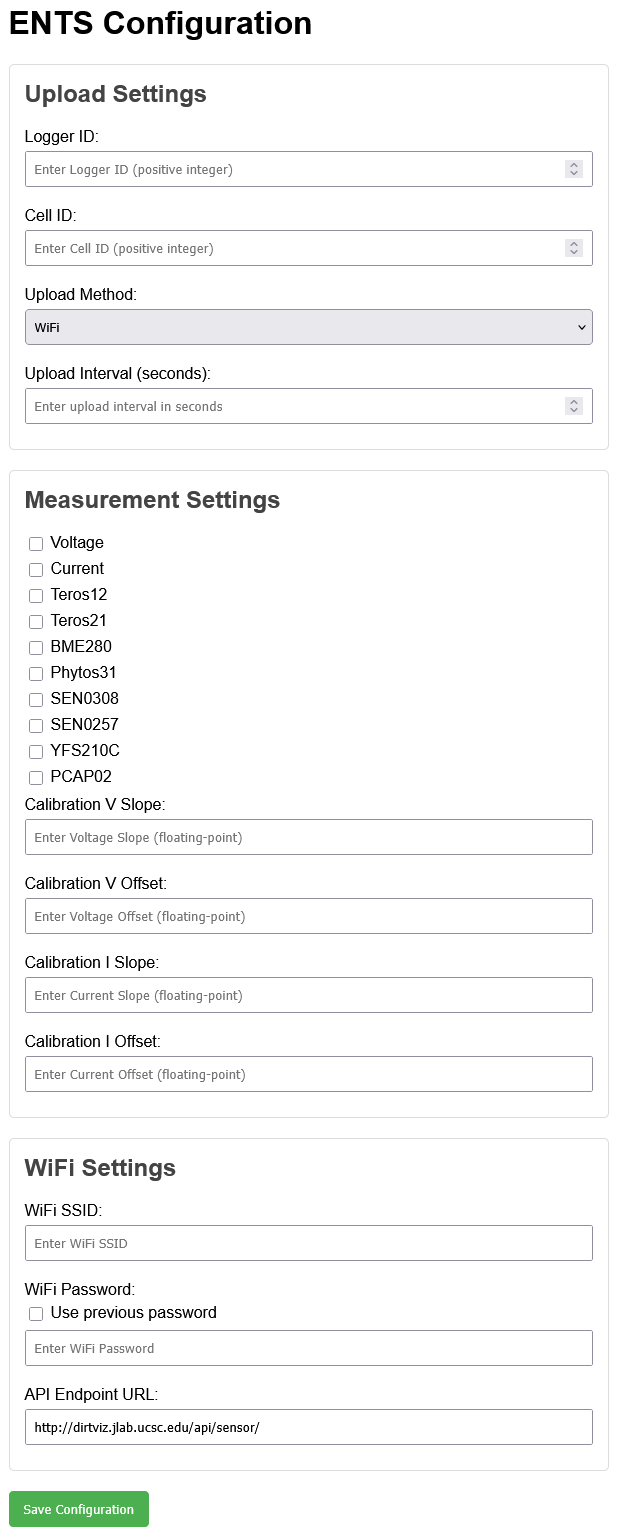
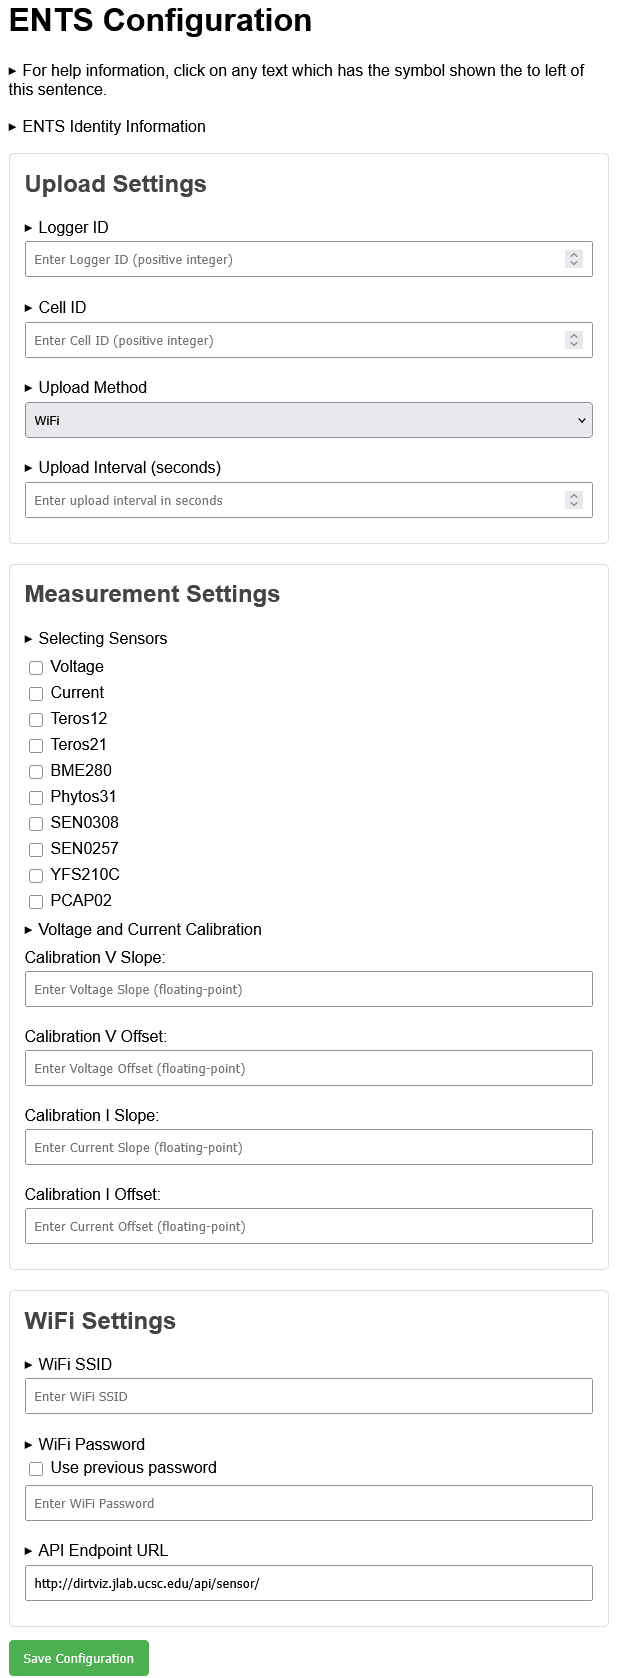
added additional images

diff --git a/getting_started_end_users.md b/getting_started_end_users.md
@@ -2,16 +2,35 @@
 
 Prerequisites: An assembled ENTS board with the [latest firmware](#how-to-check-what-firmware-is-on-your-ents-board).
 
+0. If you do not yet have a logger and a cell registered/created on your instance of [ents-backend](https://github.com/jlab-sensing/ENTS-backend), create a pair by logging in to your instance and navigating to your profile page's "Cells" and "Loggers" tabs.
+    - You can create a Logger ID on your instance of [ents-backend](https://github.com/jlab-sensing/ENTS-backend) by logging in and navigating to your Loggers page. When creating the Logger, use the values provided to you for the DevEUI, JoinEUI, and AppKey. Take note of the Logger ID, you will use it later.
+      - If you need to find out what these values are, you can find them during step 3 of the process to find out what [firmware version](#how-to-check-what-firmware-is-on-your-ents-board) you have.
+    - You can create a cell on your instance of [ents-backend](https://github.com/jlab-sensing/ENTS-backend) and get its Cell ID by logging in and navigating to your Cells page. Take note of the Cell ID, you will use it later.
+
 1. After receiving your ENTS board, plug it into power. You can use a USB cable to connect the ENTS board's USB-C port to your computer or to a 5V >=500mA power supply (such as a phone charger).
-2. Upon bootup, the ENTS board will broadcast a WiFi hotspot named `ents-unconfigured` (or `ents-` followed by some numbers according to its logger ID, ex. `ents-572`). Use your phone or computer to connect to this WiFi network.
+
+<figure>
+  <img src="ents power cropped.png" alt="ENTS power connection options" width="100%"/>
+  <figcaption><em>Figure 1:</em> To power the ENTS board, use a USB cable to connect the board to a charger or a host device.
+</figcaption>
+</figure>
+
+2. Upon bootup, the ENTS board will broadcast a WiFi hotspot named `ents-unconfigured` or `ents-` followed by its logger ID, ex. `ents-572` (for firmware versions 2.3.6 and below). If your board's firmware version is above 2.3.6, the WiFi hotspot will be named `ents-` followed by its device address, which looks like 8 random letters and numbers. Use your phone or computer to connect to this WiFi network. The default password for initial configuration is `ilovedirt`.
     - It is recommended to uncheck any options to "remember this network" or "automatically connect" to avoid accidentally connecting to ENTS board's WiFi in the future. You can also manually forget the network after finishing this guide.
+    - While you are connected to the ENTS' WiFi network, you will not have access to the broader internet.
+
+<figure>
+  <img src="ents wifi cropped.png" alt="ENTS wifi for configuration" width="100%"/>
+  <figcaption><em>Figure 2:</em> After powering on the ENTS board, connect to the wifi network it is broadcasting, then open a web browser to [192.168.4.1](http://192.168.4.1).
+</figcaption>
+</figure>
+
 3. After connecting to the ENTS' WiFi network, open a web browser and navigate to [192.168.4.1](http://192.168.4.1). This webpage is hosted locally by the ENTS board, and is used to configure the ENTS board for your use case.
-4. Fill out the form on the webpage. Some details may already be filled in based on previous configurations to that ENTS board.
-    - Upload Settings
+
+4. Fill out the form on the webpage. Some details may already be filled in based on previous configurations to that ENTS board. Text which has a triangle next to hit can be clicked on to show help text.
+    <!-- - Upload Settings
       - Logger ID: In order for the logger's data to be accepted by the server, you must provide a valid Logger ID here.
-        - You can create a Logger ID on your instance of [ents-backend](https://github.com/jlab-sensing/ENTS-backend) by logging in and navigating to your Loggers page. When creating the Logger, use the values provided to you for the DevEUI, JoinEUI, and AppKey.
       - Cell ID: Specify which cell that this logger should upload data to.
-        - You can create a cell on your instance of [ents-backend](https://github.com/jlab-sensing/ENTS-backend) and get its Cell ID by logging in and navigating to your Cells page.
       - Upload Method: Choose between WiFi or LoRaWAN communication. LoRaWAN communication requires a nearby LoRaWAN gateway (such as the Sentrius [RG191](https://www.ezurio.com/part/rg191)), so it is recommended to start with WiFi.
       - Upload Interval: Time in seconds between uploads. Minimum recommended time is 10 seconds.
     - Measurement Settings: In this section, check the box next to each sensor that you want to enable and connect to this ENTS board.
@@ -20,23 +39,45 @@ Prerequisites: An assembled ENTS board with the [latest firmware](#how-to-check-
       - WiFi SSID: Name of the WiFi network to connect to.
       - WiFi Password: Password for the WiFi network to connect to. Leave blank if you are connecting to a non password-protected (open) WiFi network.
         - Keep the "Use previous password" box unchecked so that the new password that you enter will be used instead!
-      - API Endpoint URL: Change this to point to your [ents-backend](https://github.com/jlab-sensing/ENTS-backend) instance's API endpoint URL. Typically, this should look similar to: `http://your-ents-backend-instance.com/api/sensor/`
-5. Click on the green `Save Configuration` button and follow the instructions to press the white `RST` button on the ENTS board near the USB port.
+      - API Endpoint URL: Change this to point to your [ents-backend](https://github.com/jlab-sensing/ENTS-backend) instance's API endpoint URL. Typically, this should look similar to: `http://your-ents-backend-instance.com/api/sensor/` -->
+
+<figure>
+  <img src="wifi user config cropped.png" alt="ENTS wifi user config" />
+  <figcaption><em>Figure 3:</em> For a duration after booting up, the ESP32 on the ENTS board broadcasts a wifi network for the purposes of letting the user wirelessly configure the device. The webpage hosted by the ESP32 is shown here.
+</figcaption>
+</figure>
+
+5. Click on the green `Save Configuration` button and follow the instructions to press the white `RST` button on the corner of the ENTS board near the USB port.
+
 6. On your host device, close the webpage and disconnect from the ENTS' WiFi network.
+
 7. Unplug your ENTS board from its power source.
+
 8. Connect your ENTS board to the sensors that you have enabled.
+    - To simultaneously take voltage and current readings, use the following configuration, where R is a 2 kOhm resistor:
+```
+(+) -----+----- [V+]
+         |      [V-]
+         +--R-- [I+]
+                [I-]
+(-) ----------- [GND]
+```
+
+<figure>
+  <img src="ents connect sensors cropped.png" alt="ENTS sensor connections" />
+  <figcaption><em>Figure 4:</em> The I2C and SDI-12 bus is exposed at the bottom of the board through the JST header and 3 position screw terminal. Voltage and current readings can be made through the 5 position screw terminal at the right.
+</figcaption>
+</figure>
+
 9. Reconnect your ENTS board to a power source.
+
 10. Observe the blinking status LED near the white RST button at the corner of the board.
     - It should initially be blinking slowly: searching for internet connection.
     - Then it will blink quickly: connecting to internet and attempting to upload data.
     - Finally it will turn off: successfully uploaded data.
     - If the LED is solidly on, then it has encountered an error and has halted the program. Try power cycling the device: While the board is connected to power, press and hold the blue RST button and white RST button at the same time, then release the blue RST button before releasing the white RST button.
 
-<figure>
-  <img src="wifi user config cropped.png" alt="ENTS wifi user config" />
-  <figcaption><em>Figure 2:</em> For a duration after booting up, the ESP32 on the ENTS board broadcasts a wifi network for the purposes of letting the user wirelessly configure the device. The webpage hosted by the ESP32 is shown here.
-</figcaption>
-</figure>
+
 
 # How to check what firmware is on your ENTS board
 
@@ -46,4 +87,5 @@ Prerequisites: An assembled ENTS board with the [latest firmware](#how-to-check-
    - There are also a variety of serial monitor apps available for Android and iOS which will also suffice.
    - If there does not appear to be any ports connected, you may need to install drivers for your device to recognize the ENTS board's serial chip ([CP2102](https://www.silabs.com/software-and-tools/usb-to-uart-bridge-vcp-drivers?tab=downloads)) as a device capable of being connected to with a serial monitor. Installation instructions are available within the zip file's release notes text file.
 3. After connecting your serial monitor, press the white RST button near the corner of the board and observe the text on the serial monitor. There is a line that is printed near the large "ENTS" message that describes the commit ID.
+    - For firmware versions after commit [3031db9](https://github.com/jlab-sensing/ENTS-node-firmware/commit/3031db9a9ec6f4b8116c062067c236101f7b3d51) (2026-01-08), the DevEUI, JoinEUI, and AppKey are provided as well.
 4. Compare the commit ID reported by the ENTS board against the commit ID of the latest release on the [ents-firmware repository's releases page](https://github.com/jlab-sensing/ENTS-node-firmware/releases). If they match, then you have the latest release of the firmware.
